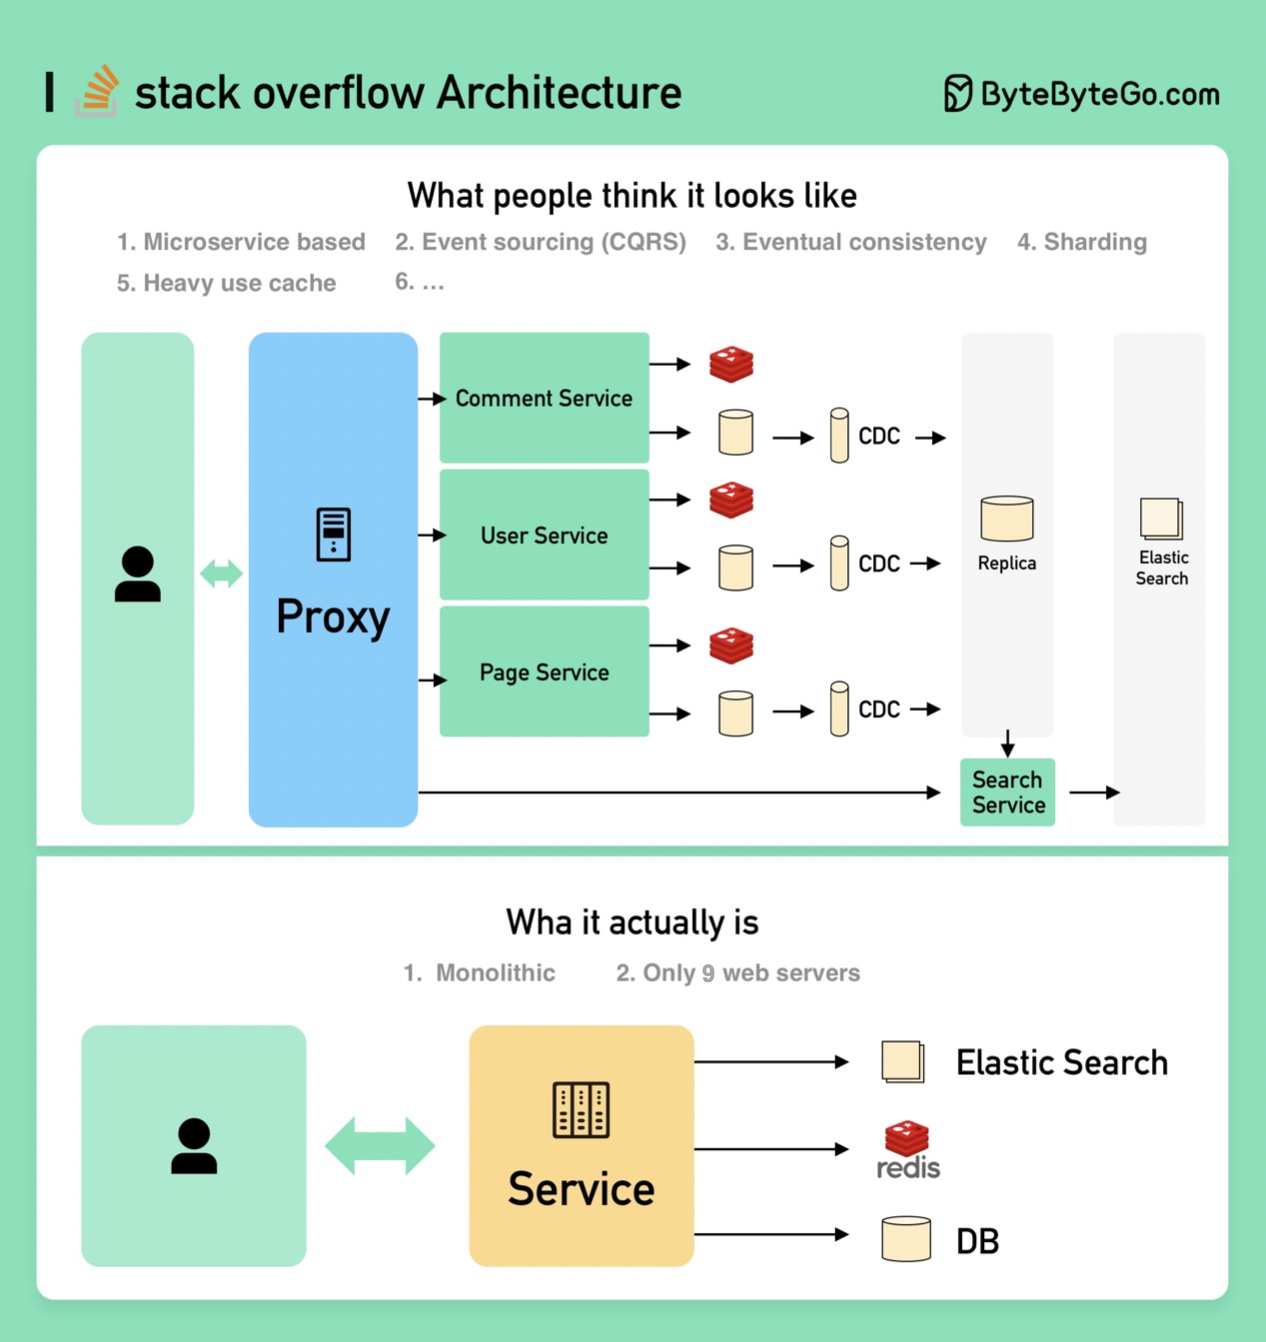
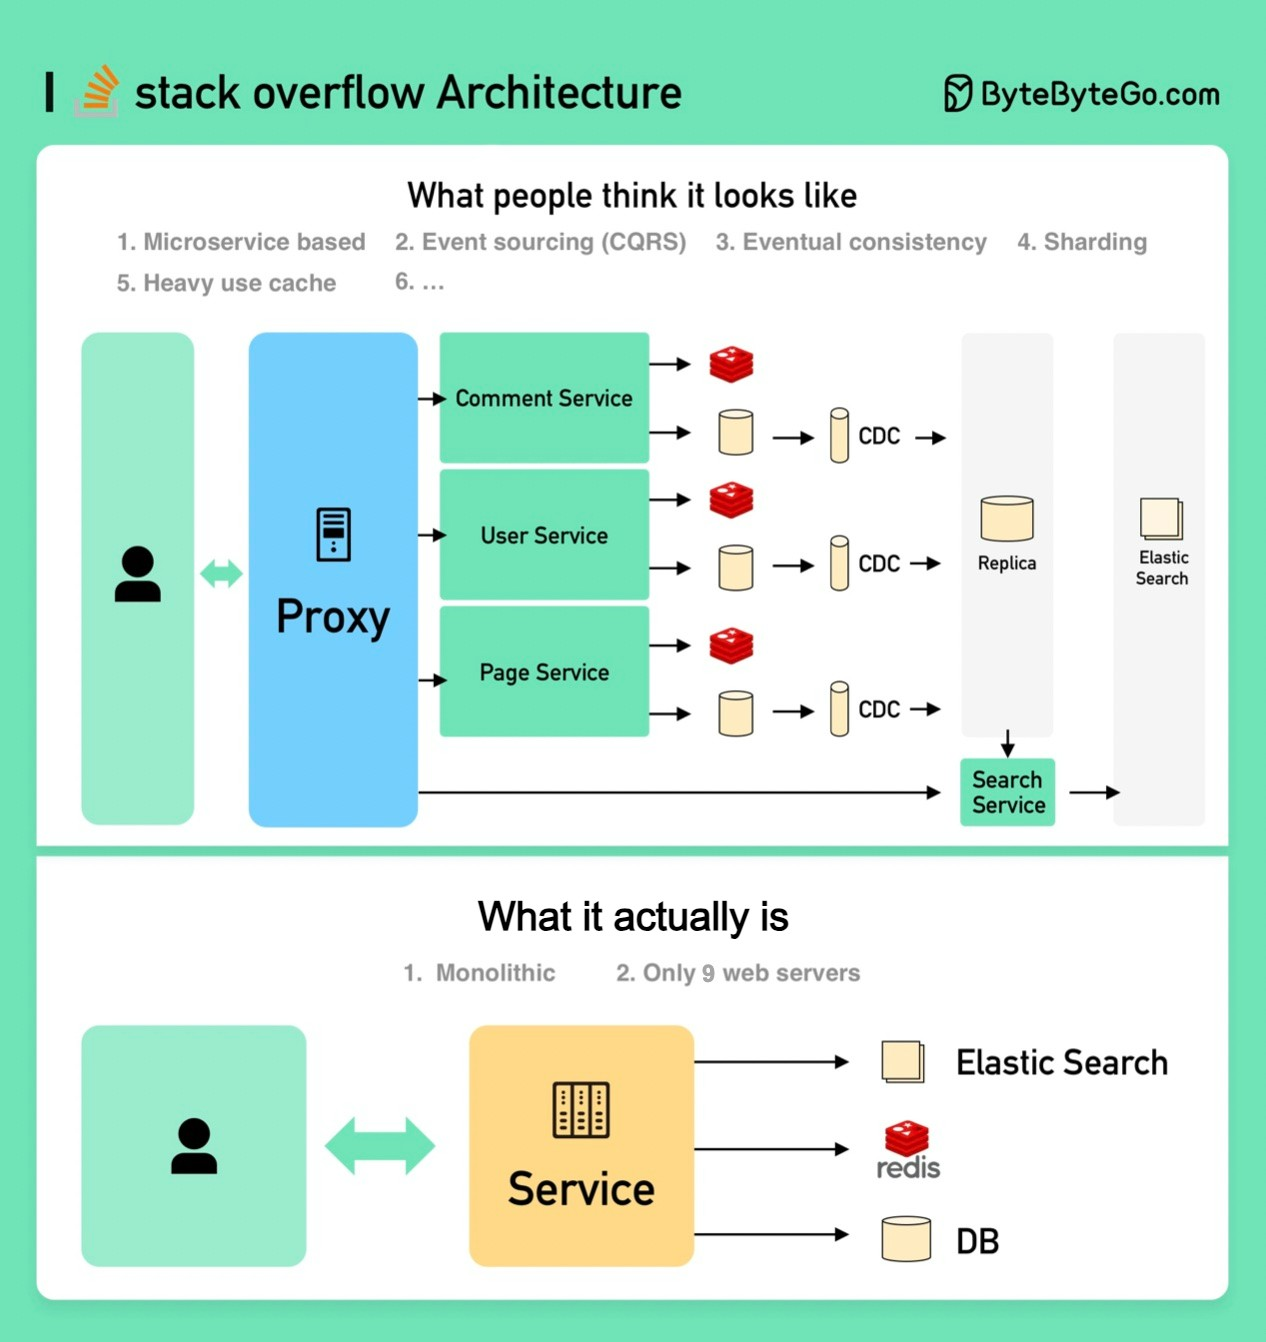
fix stackoverflow.jpg image typo (#39)
I saw stackoverflow image has a typo "wha" it might be "what"

diff --git a/README.md b/README.md
@@ -885,7 +885,7 @@ Below you will find a diagram showing the microservice tech stack, both for the 
 - NGinx is a common choice for load balancers. Cloudflare provides CDN (Content Delivery Network). 
 - API Gateway - We can use spring boot for the gateway, and use Eureka/Zookeeper for service discovery.
 - The microservices are deployed on clouds. We have options among AWS, Microsoft Azure, or Google GCP.
-Cache and Full-text Search - Redis is a common choice for caching key-value pairs. ElasticSearch is used for full-text search.
+Cache and Full-text Search - Redis is a common choice for caching key-value pairs. Elasticsearch is used for full-text search.
 - Communications - For services to talk to each other, we can use messaging infra Kafka or RPC.
 - Persistence - We can use MySQL or PostgreSQL for a relational database, and Amazon S3 for object store. We can also use Cassandra for the wide-column store if necessary.
 - Management & Monitoring - To manage so many microservices, the common Ops tools include Prometheus, Elastic Stack, and Kubernetes.
@@ -992,7 +992,7 @@ Step 4: The issuing banks confirm the correctness of the clearing files, and tra
  
 Step 5: The acquiring bank then transfers money to the merchant’s bank. 
  
-Step 4: The card network clears the transactions from different acquiring banks. Clearing is a process in which mutual offset transactions are netted, so the number of total transactions is reduced.
+Step 4: The card network clears up the transactions from different acquiring banks. Clearing is a process in which mutual offset transactions are netted, so the number of total transactions is reduced.
  
 In the process, the card network takes on the burden of talking to each bank and receives service fees in return.
 
@@ -1397,7 +1397,7 @@ From simple to complex, here is my understanding of user identity management:
 
 - JWT is a standard way of representing tokens. This information can be verified and trusted because it is digitally signed. Since JWT contains the signature, there is no need to save session information on the server side.
 
-- By using SSO (single sign-on), you can sign on only once and log in to multiple websites. It uses CAS (central authentication service) to maintain cross-site information
+- By using SSO (single sign-on), you can sign on only once and log in to multiple websites. It uses CAS (central authentication service) to maintain cross-site information.
 
 - By using OAuth 2.0, you can authorize one website to access your information on another website.
 
@@ -1462,7 +1462,7 @@ Google Authenticator is a software-based authenticator that implements a two-ste
 
 There are two stages involved:
 
-- Stage 1 - The user enables Google two-step verification 
+- Stage 1 - The user enables Google two-step verification. 
 - Stage 2 - The user uses the authenticator for logging in, etc.
 
 Let’s look at these stages.
@@ -1587,7 +1587,7 @@ In Microrepo, dependencies are controlled within each repository. Businesses cho
 
 Monorepo has a standard for check-ins. Google's code review process is famously known for setting a high bar, ensuring a coherent quality standard for Monorepo, regardless of the business. 
 
-Microrepo can either set its own standard or adopt a shared standard by incorporating best practices. It can scale faster for business, but the code quality might be a bit different. 
+Microrepo can either set its own standard or adopt a shared standard by incorporating the best practices. It can scale faster for business, but the code quality might be a bit different. 
 Google engineers built Bazel, and Meta built Buck. There are other open-source tools available, including Nix, Lerna, and others. 
 
 Over the years, Microrepo has had more supported tools, including Maven and Gradle for Java, NPM for NodeJS, and CMake for C/C++, among others. 
